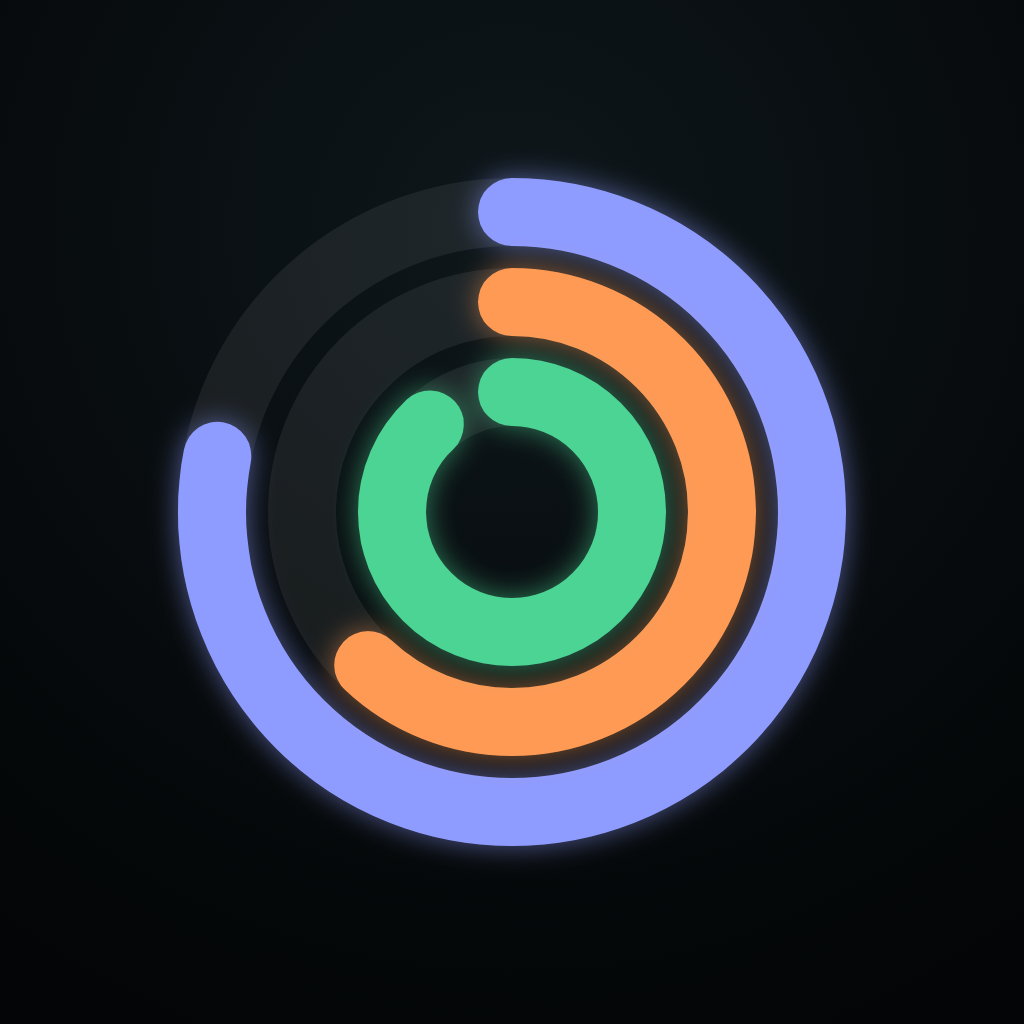
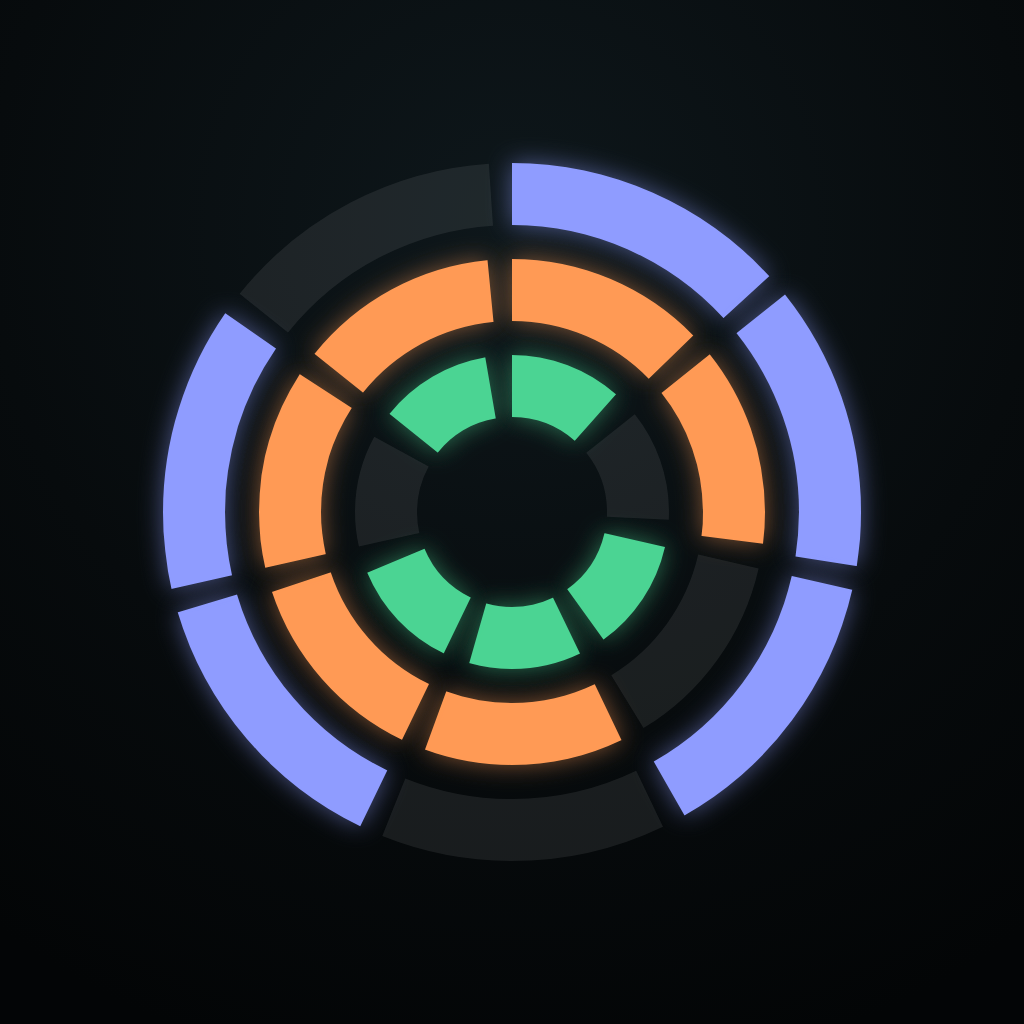
Icona con gli anelli della settimana
Tre anelli (studio, proteine, allenamento) divisi in sette spicchi,
uno per giorno: i giorni fatti sono accesi, gli altri spenti. Più
distinta dall'app Fitness. Rigenerate icone e schermate di avvio,
cache del service worker a v4.

Claude-Session: https://claude.ai/code/session_017dMtFuCQ9kdJQCNcUx3vJN

Changed region(s): [[0.125, 0.1562, 0.875, 0.8438]]

diff --git a/sw.js b/sw.js
@@ -1,7 +1,7 @@
 /* Libretto Personale: service worker.
    Pagina e file dell'app: prima la rete (così gli aggiornamenti arrivano subito), copia salvata se offline.
    Font Google: dalla copia salvata. Le chiamate a Supabase non passano di qui. */
-const VERSION = 'libretto-v3';
+const VERSION = 'libretto-v4';
 const SHELL = [
   './', 'index.html', 'config.js', 'libretto-sync.js', 'vendor/supabase-2.117.3.js', 'manifest.json',
   'img/hero.jpg', 'icons/icon-192.png', 'icons/icon-512.png', 'icons/apple-touch-icon.png', 'icons/favicon-32.png'
